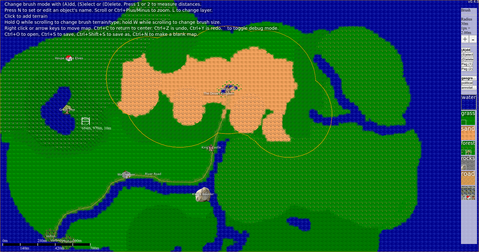
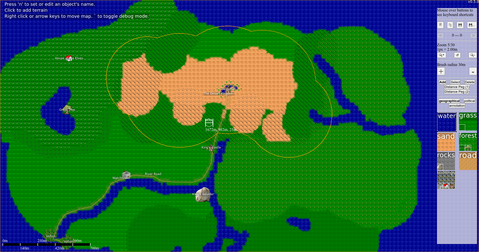
Mapping tool 0.5 release post

diff --git a/blog/mapper0_5.html b/blog/mapper0_5.html
@@ -1,0 +1,43 @@
+<!DOCTYPE html>
+<html lang="en">
+	<head>
+		<meta name="viewport" content="width=device-width, initial-scale=1">
+		<meta name="author" content="Ben Leskey">
+		<title>Ben Leskey | Mapping tool 0.5 release</title>
+		<link rel="stylesheet" type="text/css" href="../style.css">
+
+		<!-- Syntax highlighting with highlight.js -->
+		<link rel="stylesheet" href="../deps/highlight.js.css">
+		<script src="../deps/highlight.js.js"></script>
+		<script>hljs.highlightAll();</script>
+	</head>
+	<body>
+		<a href="..">Ben Leskey</a> | <a href=".">Blog</a>
+		<hr>
+		<h1>Mapping tool 0.5 release</h1>
+		<span class="subtitle">2023-01-21</span>
+		<span class="tags"> <a class='tag' href='tags#mappingtool'>#mappingtool</a> <a class='tag' href='tags#software'>#software</a></span>
+		<hr>
+		
+<p>Hello all!</p>
+<p>Here’s version 0.5 of the mapping tool!</p>
+<p>You can download it here: <a href="https://github.com/mapper1024/mapper1024/blob/master/DOWNLOAD.md#download-options">https://github.com/mapper1024/mapper1024/blob/master/DOWNLOAD.md#download-options</a></p>
+<p>You can use the online demo here: <a href="https://mapper1024.github.io/demo">https://mapper1024.github.io/demo</a></p>
+<p>Once you’ve tested the new version, please <a href="https://forms.gle/j3ysVaCAcbXLo7iw6">fill out the feedback survey</a>.</p>
+<h2 id="you-can-click-everything-now">You can click everything now!</h2>
+<p>One of the primary bits of feedback I received was for a better user interface, and version 0.5 now has a full palette sidebar so that every single control is clickable instead of needing to use the keyboard for everything! The big blob of help text is also much reduced; there are labels, icons, and/or buttons for everything and you can hover your mouse over them if you want to know the keyboard shortcuts.</p>
+<p><a href="https://mapper1024.github.io/screenshots/sample_map_0.5.0.png"><img src="https://mapper1024.github.io/screenshots/sample_map_0.5.0.thumb.png" alt="A screenshot of the sample map in the mapping tool" /></a></p>
+<h2 id="rapid-improvements-on-the-way">Rapid improvements on the way</h2>
+<p>The project is now in the stage of tweaking usability. The core features and gritty details have all been programmed. This means I will be rapidly fixing the user interface, improving the graphics, and focusing on addressing your feedback and suggestions. Planned improvements include:</p>
+<ul>
+<li>Better extended and varied graphics set</li>
+<li>Performance improvements</li>
+<li>Extended annotations</li>
+<li>Area calculation</li>
+<li>More intuitive controls</li>
+</ul>
+<h2 id="survey">Survey</h2>
+<p>Your feedback on the previous surveys has been very helpful! After you test this version, please <a href="https://forms.gle/j3ysVaCAcbXLo7iw6">fill out the 0.5 survey</a>. I greatly appreciate when you fill out the survey; not only is it useful for guiding development of the mapping tool but it is very useful for the academic side of the project to have scientific data such as “how many people like this feature” or “how has the rating of this user interface changed between versions”. So if you can spare a few minutes of your time to <a href="https://forms.gle/j3ysVaCAcbXLo7iw6">complete the survey</a>, I’ll be very grateful!</p>
+		<hr>
+	</body>
+</html>

diff --git a/blog.in/mapper0_5.in.html b/blog.in/mapper0_5.in.html
@@ -1,0 +1,19 @@
+<p>Hello all!</p>
+<p>Here’s version 0.5 of the mapping tool!</p>
+<p>You can download it here: <a href="https://github.com/mapper1024/mapper1024/blob/master/DOWNLOAD.md#download-options">https://github.com/mapper1024/mapper1024/blob/master/DOWNLOAD.md#download-options</a></p>
+<p>You can use the online demo here: <a href="https://mapper1024.github.io/demo">https://mapper1024.github.io/demo</a></p>
+<p>Once you’ve tested the new version, please <a href="https://forms.gle/j3ysVaCAcbXLo7iw6">fill out the feedback survey</a>.</p>
+<h2 id="you-can-click-everything-now">You can click everything now!</h2>
+<p>One of the primary bits of feedback I received was for a better user interface, and version 0.5 now has a full palette sidebar so that every single control is clickable instead of needing to use the keyboard for everything! The big blob of help text is also much reduced; there are labels, icons, and/or buttons for everything and you can hover your mouse over them if you want to know the keyboard shortcuts.</p>
+<p><a href="https://mapper1024.github.io/screenshots/sample_map_0.5.0.png"><img src="https://mapper1024.github.io/screenshots/sample_map_0.5.0.thumb.png" alt="A screenshot of the sample map in the mapping tool" /></a></p>
+<h2 id="rapid-improvements-on-the-way">Rapid improvements on the way</h2>
+<p>The project is now in the stage of tweaking usability. The core features and gritty details have all been programmed. This means I will be rapidly fixing the user interface, improving the graphics, and focusing on addressing your feedback and suggestions. Planned improvements include:</p>
+<ul>
+<li>Better extended and varied graphics set</li>
+<li>Performance improvements</li>
+<li>Extended annotations</li>
+<li>Area calculation</li>
+<li>More intuitive controls</li>
+</ul>
+<h2 id="survey">Survey</h2>
+<p>Your feedback on the previous surveys has been very helpful! After you test this version, please <a href="https://forms.gle/j3ysVaCAcbXLo7iw6">fill out the 0.5 survey</a>. I greatly appreciate when you fill out the survey; not only is it useful for guiding development of the mapping tool but it is very useful for the academic side of the project to have scientific data such as “how many people like this feature” or “how has the rating of this user interface changed between versions”. So if you can spare a few minutes of your time to <a href="https://forms.gle/j3ysVaCAcbXLo7iw6">complete the survey</a>, I’ll be very grateful!</p>

diff --git a/blog/tags.html b/blog/tags.html
@@ -14,12 +14,14 @@
 
 <h1>mappingtool</h1>
 <ul>
+<li class='postlisting'><a href='mapper0_5'>Mapping tool 0.5 release</a> [2023-01-21]  <a class='smalltag' href='tags#mappingtool'>#mappingtool</a> <a class='smalltag' href='tags#software'>#software</a></li>
 <li class='postlisting'><a href='mapper0_4'>Mapping tool 0.4 release</a> [2023-01-04]  <a class='smalltag' href='tags#mappingtool'>#mappingtool</a> <a class='smalltag' href='tags#software'>#software</a></li>
 <li class='postlisting'><a href='mapper0_3'>Mapping tool 0.3 release</a> [2022-10-26]  <a class='smalltag' href='tags#mappingtool'>#mappingtool</a> <a class='smalltag' href='tags#software'>#software</a></li>
 <li class='postlisting'><a href='mapper0_1'>Mapping tool 0.1 release</a> [2022-08-01]  <a class='smalltag' href='tags#mappingtool'>#mappingtool</a> <a class='smalltag' href='tags#software'>#software</a></li>
 </ul>
 <h1>software</h1>
 <ul>
+<li class='postlisting'><a href='mapper0_5'>Mapping tool 0.5 release</a> [2023-01-21]  <a class='smalltag' href='tags#mappingtool'>#mappingtool</a> <a class='smalltag' href='tags#software'>#software</a></li>
 <li class='postlisting'><a href='website_build_script'>benleskey.com build script</a> [2023-01-12]  <a class='smalltag' href='tags#software'>#software</a> <a class='smalltag' href='tags#website'>#website</a></li>
 <li class='postlisting'><a href='mapper0_4'>Mapping tool 0.4 release</a> [2023-01-04]  <a class='smalltag' href='tags#mappingtool'>#mappingtool</a> <a class='smalltag' href='tags#software'>#software</a></li>
 <li class='postlisting'><a href='mapper0_3'>Mapping tool 0.3 release</a> [2022-10-26]  <a class='smalltag' href='tags#mappingtool'>#mappingtool</a> <a class='smalltag' href='tags#software'>#software</a></li>

diff --git a/blog/_tags.in.html b/blog/_tags.in.html
@@ -1,12 +1,14 @@
 
 <h1>mappingtool</h1>
 <ul>
+<li class='postlisting'><a href='mapper0_5'>Mapping tool 0.5 release</a> [2023-01-21]  <a class='smalltag' href='tags#mappingtool'>#mappingtool</a> <a class='smalltag' href='tags#software'>#software</a></li>
 <li class='postlisting'><a href='mapper0_4'>Mapping tool 0.4 release</a> [2023-01-04]  <a class='smalltag' href='tags#mappingtool'>#mappingtool</a> <a class='smalltag' href='tags#software'>#software</a></li>
 <li class='postlisting'><a href='mapper0_3'>Mapping tool 0.3 release</a> [2022-10-26]  <a class='smalltag' href='tags#mappingtool'>#mappingtool</a> <a class='smalltag' href='tags#software'>#software</a></li>
 <li class='postlisting'><a href='mapper0_1'>Mapping tool 0.1 release</a> [2022-08-01]  <a class='smalltag' href='tags#mappingtool'>#mappingtool</a> <a class='smalltag' href='tags#software'>#software</a></li>
 </ul>
 <h1>software</h1>
 <ul>
+<li class='postlisting'><a href='mapper0_5'>Mapping tool 0.5 release</a> [2023-01-21]  <a class='smalltag' href='tags#mappingtool'>#mappingtool</a> <a class='smalltag' href='tags#software'>#software</a></li>
 <li class='postlisting'><a href='website_build_script'>benleskey.com build script</a> [2023-01-12]  <a class='smalltag' href='tags#software'>#software</a> <a class='smalltag' href='tags#website'>#website</a></li>
 <li class='postlisting'><a href='mapper0_4'>Mapping tool 0.4 release</a> [2023-01-04]  <a class='smalltag' href='tags#mappingtool'>#mappingtool</a> <a class='smalltag' href='tags#software'>#software</a></li>
 <li class='postlisting'><a href='mapper0_3'>Mapping tool 0.3 release</a> [2022-10-26]  <a class='smalltag' href='tags#mappingtool'>#mappingtool</a> <a class='smalltag' href='tags#software'>#software</a></li>

diff --git a/index.html b/index.html
@@ -22,10 +22,10 @@
 		<h2 id="blogpreview">Blog posts</h2>
 		
 <ul>
+<li class='postlisting'><a href='blog/mapper0_5'>Mapping tool 0.5 release</a> [2023-01-21]  <a class='smalltag' href='blog/tags#mappingtool'>#mappingtool</a> <a class='smalltag' href='blog/tags#software'>#software</a></li>
 <li class='postlisting'><a href='blog/website_build_script'>benleskey.com build script</a> [2023-01-12]  <a class='smalltag' href='blog/tags#software'>#software</a> <a class='smalltag' href='blog/tags#website'>#website</a></li>
 <li class='postlisting'><a href='blog/mapper0_4'>Mapping tool 0.4 release</a> [2023-01-04]  <a class='smalltag' href='blog/tags#mappingtool'>#mappingtool</a> <a class='smalltag' href='blog/tags#software'>#software</a></li>
-<li class='postlisting'><a href='blog/mapper0_3'>Mapping tool 0.3 release</a> [2022-10-26]  <a class='smalltag' href='blog/tags#mappingtool'>#mappingtool</a> <a class='smalltag' href='blog/tags#software'>#software</a></li>
-<li><a href='blog'>1 more...</a></li>
+<li><a href='blog'>2 more...</a></li>
 </ul>
 
 		<h2 id="projects">Projects</h2>
@@ -188,7 +188,7 @@
 		<hr>
 
 		<footer>
-			Last updated 2023-01-18
+			Last updated 2023-01-21
 		</footer>
 	</body>
 </html>

diff --git a/blog/_minor.in.html b/blog/_minor.in.html
@@ -1,6 +1,6 @@
 <ul>
+<li class='postlisting'><a href='blog/mapper0_5'>Mapping tool 0.5 release</a> [2023-01-21]  <a class='smalltag' href='blog/tags#mappingtool'>#mappingtool</a> <a class='smalltag' href='blog/tags#software'>#software</a></li>
 <li class='postlisting'><a href='blog/website_build_script'>benleskey.com build script</a> [2023-01-12]  <a class='smalltag' href='blog/tags#software'>#software</a> <a class='smalltag' href='blog/tags#website'>#website</a></li>
 <li class='postlisting'><a href='blog/mapper0_4'>Mapping tool 0.4 release</a> [2023-01-04]  <a class='smalltag' href='blog/tags#mappingtool'>#mappingtool</a> <a class='smalltag' href='blog/tags#software'>#software</a></li>
-<li class='postlisting'><a href='blog/mapper0_3'>Mapping tool 0.3 release</a> [2022-10-26]  <a class='smalltag' href='blog/tags#mappingtool'>#mappingtool</a> <a class='smalltag' href='blog/tags#software'>#software</a></li>
-<li><a href='blog'>1 more...</a></li>
+<li><a href='blog'>2 more...</a></li>
 </ul>

diff --git a/blog/index.html b/blog/index.html
@@ -12,6 +12,7 @@
 		<h1>Ben Leskey's Blog</h1>
 		
 <ul>
+<li class='postlisting'><a href='mapper0_5'>Mapping tool 0.5 release</a> [2023-01-21]  <a class='smalltag' href='tags#mappingtool'>#mappingtool</a> <a class='smalltag' href='tags#software'>#software</a></li>
 <li class='postlisting'><a href='website_build_script'>benleskey.com build script</a> [2023-01-12]  <a class='smalltag' href='tags#software'>#software</a> <a class='smalltag' href='tags#website'>#website</a></li>
 <li class='postlisting'><a href='mapper0_4'>Mapping tool 0.4 release</a> [2023-01-04]  <a class='smalltag' href='tags#mappingtool'>#mappingtool</a> <a class='smalltag' href='tags#software'>#software</a></li>
 <li class='postlisting'><a href='mapper0_3'>Mapping tool 0.3 release</a> [2022-10-26]  <a class='smalltag' href='tags#mappingtool'>#mappingtool</a> <a class='smalltag' href='tags#software'>#software</a></li>

diff --git a/blog/_major.in.html b/blog/_major.in.html
@@ -1,4 +1,5 @@
 <ul>
+<li class='postlisting'><a href='mapper0_5'>Mapping tool 0.5 release</a> [2023-01-21]  <a class='smalltag' href='tags#mappingtool'>#mappingtool</a> <a class='smalltag' href='tags#software'>#software</a></li>
 <li class='postlisting'><a href='website_build_script'>benleskey.com build script</a> [2023-01-12]  <a class='smalltag' href='tags#software'>#software</a> <a class='smalltag' href='tags#website'>#website</a></li>
 <li class='postlisting'><a href='mapper0_4'>Mapping tool 0.4 release</a> [2023-01-04]  <a class='smalltag' href='tags#mappingtool'>#mappingtool</a> <a class='smalltag' href='tags#software'>#software</a></li>
 <li class='postlisting'><a href='mapper0_3'>Mapping tool 0.3 release</a> [2022-10-26]  <a class='smalltag' href='tags#mappingtool'>#mappingtool</a> <a class='smalltag' href='tags#software'>#software</a></li>

diff --git a/blog/_tag_software.html b/blog/_tag_software.html
@@ -1,3 +1,4 @@
+<li class='postlisting'><a href='mapper0_5'>Mapping tool 0.5 release</a> [2023-01-21]  <a class='smalltag' href='tags#mappingtool'>#mappingtool</a> <a class='smalltag' href='tags#software'>#software</a></li>
 <li class='postlisting'><a href='website_build_script'>benleskey.com build script</a> [2023-01-12]  <a class='smalltag' href='tags#software'>#software</a> <a class='smalltag' href='tags#website'>#website</a></li>
 <li class='postlisting'><a href='mapper0_4'>Mapping tool 0.4 release</a> [2023-01-04]  <a class='smalltag' href='tags#mappingtool'>#mappingtool</a> <a class='smalltag' href='tags#software'>#software</a></li>
 <li class='postlisting'><a href='mapper0_3'>Mapping tool 0.3 release</a> [2022-10-26]  <a class='smalltag' href='tags#mappingtool'>#mappingtool</a> <a class='smalltag' href='tags#software'>#software</a></li>

diff --git a/blog/_tag_mappingtool.html b/blog/_tag_mappingtool.html
@@ -1,3 +1,4 @@
+<li class='postlisting'><a href='mapper0_5'>Mapping tool 0.5 release</a> [2023-01-21]  <a class='smalltag' href='tags#mappingtool'>#mappingtool</a> <a class='smalltag' href='tags#software'>#software</a></li>
 <li class='postlisting'><a href='mapper0_4'>Mapping tool 0.4 release</a> [2023-01-04]  <a class='smalltag' href='tags#mappingtool'>#mappingtool</a> <a class='smalltag' href='tags#software'>#software</a></li>
 <li class='postlisting'><a href='mapper0_3'>Mapping tool 0.3 release</a> [2022-10-26]  <a class='smalltag' href='tags#mappingtool'>#mappingtool</a> <a class='smalltag' href='tags#software'>#software</a></li>
 <li class='postlisting'><a href='mapper0_1'>Mapping tool 0.1 release</a> [2022-08-01]  <a class='smalltag' href='tags#mappingtool'>#mappingtool</a> <a class='smalltag' href='tags#software'>#software</a></li>
